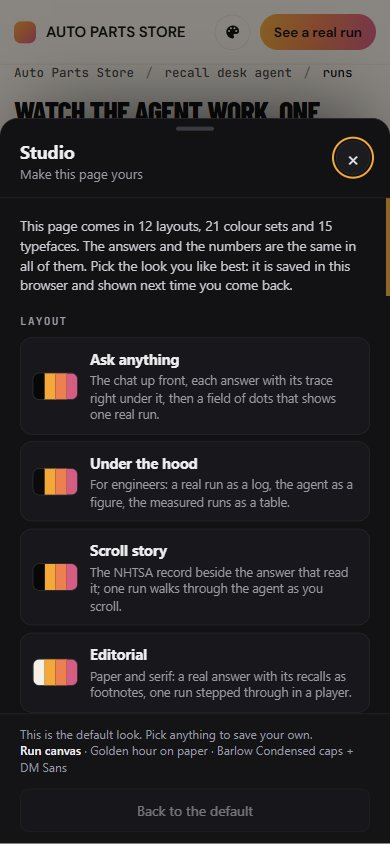
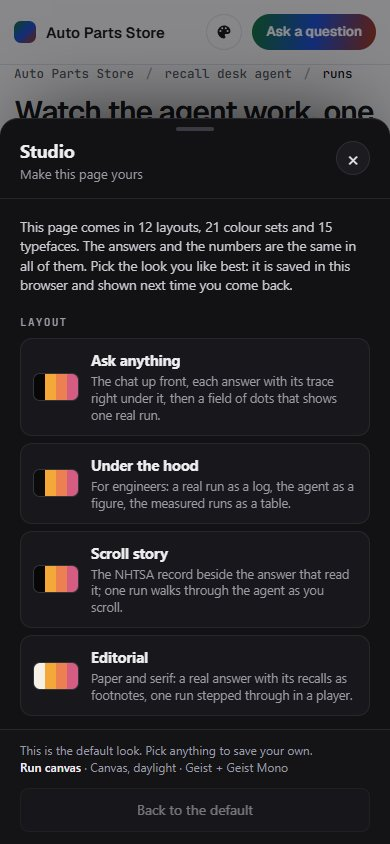
feat(web): Run canvas on Canvas, daylight with Geist is the default look
The default look a first visit sees becomes layout 10, Run canvas, on
Canvas, daylight with Geist + Geist Mono (web/src/studio/presets.ts
DEFAULT, now { option: "10", palette: "canvasDay", font: "geist" }). It
was layout 01, Ask anything, on Golden hour on paper with Plus Jakarta
Sans, since 2026-11-15 (5c62ec2). The owner picked the new look in the
Studio.

The README pictures follow the default:
- layout-10 at 1280 and 390, and the Studio at 1280 and 390, retaken from
  the bare address, so they show the new default look;
- layout-01 at 1280 and 390, retaken from ?layout=01, so they show 01 in
  its own colours, like every other pair. They showed the default look
  while 01 was the default.
The README text that named layout 01 as the default (the intro, the 01
and 10 captions, the note on how the pictures were taken, the presets
line) says layout 10 now.

How the pictures were taken: the production build served locally with
vite preview, where tracking is off, so the captures add nothing to the
live site's analytics. That copy has no API behind it, so its status call
was answered in the capture browser with the live site's own reply of
the same day ({"live":true,"perVisitorPerDay":5}), and the desk opens on
Ask as it does live. Viewport captures, 1280 x 800 and 390 x 844, none
scrolls sideways (6 of 6).

Tests: the two Studio tests that pin the default changed first and failed
on the old DEFAULT (2 of 239); npm test 239 of 239, web:build and
build:lambda pass.
[…]

diff --git a/test/web-studio.test.ts b/test/web-studio.test.ts
@@ -67,11 +67,12 @@ test("every palette meets the contrast it claims", () => {
   }
 });
 
-// The default (chosen 2026-11-15) is Ask anything (01) with Golden hour on paper and Plus
-// Jakarta Sans + IBM Plex Mono; before that it was Run canvas (10) with Barlow Condensed caps.
-test("fifteen font pairings; the default is Ask anything on golden hour on paper with Plus Jakarta Sans", () => {
+// The default (chosen 2026-11-21) is Run canvas (10) on Canvas, daylight with Geist + Geist Mono;
+// before that, from 2026-11-15, Ask anything (01) on Golden hour on paper with Plus Jakarta Sans,
+// and before that Run canvas (10) with Barlow Condensed caps.
+test("fifteen font pairings; the default is Run canvas on Canvas, daylight with Geist", () => {
   assert.equal(Object.keys(FONTS).length, 15);
-  assert.deepEqual(DEFAULT, { option: "01", palette: "coverPaper", font: "jakarta" });
+  assert.deepEqual(DEFAULT, { option: "10", palette: "canvasDay", font: "geist" });
   assert.match(FONTS.condensed.head, /Barlow Condensed/);
   assert.match(FONTS.condensed.body, /DM Sans/);
   assert.equal(FONTS.condensed.caps, true);
@@ -90,8 +91,8 @@ test("a ?layout= link is shown and says it came from a link", () => {
 
 test("without a link the saved pick shows; without either, the default", () => {
   assert.deepEqual(resolve("", { option: "08", palette: "lime", font: "inter" }), { option: "08", palette: "lime", font: "inter", source: "saved" });
-  assert.deepEqual(resolve(""), { option: "01", palette: "coverPaper", font: "jakarta", source: "default" });
-  assert.deepEqual(resolve("?layout=99"), { option: "01", palette: "coverPaper", font: "jakarta", source: "default" });
+  assert.deepEqual(resolve(""), { option: "10", palette: "canvasDay", font: "geist", source: "default" });
+  assert.deepEqual(resolve("?layout=99"), { option: "10", palette: "canvasDay", font: "geist", source: "default" });
   assert.equal(resolve("", { option: "99" }).source, "default");
 });
 

diff --git a/web/src/studio/presets.ts b/web/src/studio/presets.ts
@@ -68,9 +68,10 @@ export const OPTIONS: Option[] = [
   { id: "14", name: "Status cards", short: "Friendly, like a car app: each piece of the agent as a card with its status. Tap one to find it on the map.", cfg: { look: "garage", palette: "garage", font: "outfit" } },
 ];
 
-// What a first-time visitor sees: Ask anything on Golden hour on paper with Plus Jakarta Sans + IBM Plex
-// Mono (chosen 2026-11-15; before that Run canvas, layout 10, with Barlow Condensed caps).
-export const DEFAULT = { option: "01", palette: "coverPaper", font: "jakarta" };
+// What a first-time visitor sees: Run canvas (layout 10) on Canvas, daylight with Geist + Geist Mono
+// (chosen 2026-11-21; from 2026-11-15 Ask anything on Golden hour on paper with Plus Jakarta Sans,
+// before that Run canvas with Barlow Condensed caps).
+export const DEFAULT = { option: "10", palette: "canvasDay", font: "geist" };
 
 export const PALETTES: Record<string, Palette> = {
   coverDark: { name: "Golden hour on black", bg: "#070708", card: "#141416", card2: "#1b1b1e", line: "#26262c", tx: "#f3f3f5", mu: "#9a9aa3", a1: "#f4a83a", a2: "#ec8050", a3: "#d55c82", acc: "#f4a83a", on: "#111111", mark: "rgba(244,168,58,.28)" },

diff --git a/README.md b/README.md
@@ -18,7 +18,7 @@ questions each on Claude Haiku 5.5, Sonnet 5.5 and Opus 5.5, passed 44, 46 and 5
 **A system map, and a customizable page.** Every layout shows the whole system as one map that lights up, piece by
 piece, as a recorded or live answer plays, with a 16-step tour of the run where the safety rule sent the first
 answer back. The demo comes in 12 layouts, 21 colour sets and 15 typefaces, with the same answers and numbers in
-all of them; the default is layout 01, Ask anything. The **Studio** button lets a visitor pick a look, and the pick
+all of them; the default is layout 10, Run canvas, in daylight colours. The **Studio** button lets a visitor pick a look, and the pick
 is saved in their browser for the next visit. See [Design](#design-on-the-web-and-on-a-phone).
 
 <a href="https://recall-desk.mniznik.com"><img alt="The system map on the live demo playing a real recorded run, the park-it recall: each piece lights up as the agent works, the rules send the first answer back because the safety warning is missing, and the corrected answer is shown with its 12 recalls cited. A caption under the map names each of the 10 steps." src="docs/img/system-map.gif" width="760"></a>
@@ -459,7 +459,7 @@ layout (`?layout=NN`) on the live site.
 <td><a href="https://recall-desk.mniznik.com/?layout=01"><img alt="Layout 01, Ask anything, on the web at 1280 pixels" src="docs/img/layouts/layout-01-1280.jpeg" width="600"></a></td>
 <td align="center"><a href="https://recall-desk.mniznik.com/?layout=01"><img alt="Layout 01, Ask anything, on a phone at 390 pixels" src="docs/img/layouts/layout-01.jpeg" width="200"></a></td>
 </tr>
-<tr><td colspan="2"><b>01 Ask anything</b> (the default layout, shown in the default look). The chat up front, each answer with its trace right under it, then a field of dots that shows one real run.</td></tr>
+<tr><td colspan="2"><b>01 Ask anything</b>. The chat up front, each answer with its trace right under it, then a field of dots that shows one real run.</td></tr>
 <tr>
 <td><a href="https://recall-desk.mniznik.com/?layout=04"><img alt="Layout 04, Under the hood, on the web at 1280 pixels" src="docs/img/layouts/layout-04-1280.jpeg" width="600"></a></td>
 <td align="center"><a href="https://recall-desk.mniznik.com/?layout=04"><img alt="Layout 04, Under the hood, on a phone at 390 pixels" src="docs/img/layouts/layout-04.jpeg" width="200"></a></td>
@@ -494,7 +494,7 @@ layout (`?layout=NN`) on the live site.
 <td><a href="https://recall-desk.mniznik.com/?layout=10"><img alt="Layout 10, Run canvas, on the web at 1280 pixels" src="docs/img/layouts/layout-10-1280.jpeg" width="600"></a></td>
 <td align="center"><a href="https://recall-desk.mniznik.com/?layout=10"><img alt="Layout 10, Run canvas, on a phone at 390 pixels" src="docs/img/layouts/layout-10.jpeg" width="200"></a></td>
 </tr>
-<tr><td colspan="2"><b>10 Run canvas</b>. A workflow canvas: the recorded runs in a rail, the system map in the middle lighting up step by step, the desk as its log panel.</td></tr>
+<tr><td colspan="2"><b>10 Run canvas</b> (the default layout, shown in the default look: Canvas, daylight with Geist and Geist Mono). A workflow canvas: the recorded runs in a rail, the system map in the middle lighting up step by step, the desk as its log panel.</td></tr>
 <tr>
 <td><a href="https://recall-desk.mniznik.com/?layout=11"><img alt="Layout 11, Trace waterfall, on the web at 1280 pixels" src="docs/img/layouts/layout-11-1280.jpeg" width="600"></a></td>
 <td align="center"><a href="https://recall-desk.mniznik.com/?layout=11"><img alt="Layout 11, Trace waterfall, on a phone at 390 pixels" src="docs/img/layouts/layout-11.jpeg" width="200"></a></td>
@@ -525,9 +525,11 @@ layout (`?layout=NN`) on the live site.
 The web pictures are 1280 by 800 captures of the live site on 2026-11-14, where the desk opens on Ask. The phone
 pictures are 390 by 844 captures of the production build served locally with `vite preview` the same day; with
 no server behind that copy, live answers are off and the desk opens on the Examples, as it does whenever live
-answers are off. The 01 pair is the exception: both are from the live site's bare address on 2026-11-15, so they
-show the default look. Every other pair comes from a `?layout=` link, which shows a layout in its own colours and
-type.
+answers are off. Three pairs were retaken on 2026-11-21, when the default changed, from the production build served
+locally with `vite preview`, with its status call answered as the live site answered it that day (live answers
+on), so the desk opens on Ask as it does live: the 10 pair and the Studio pair from the bare address, so they show
+the default look, and the 01 pair from `?layout=01`. Every pair except 10 and the Studio comes from a `?layout=`
+link, which shows a layout in its own colours and type.
 
 **The desk** is the same in every layout ([web/src/App.tsx](web/src/App.tsx)), with three tabs:
 
@@ -561,8 +563,8 @@ whether the look on screen came from a link, a saved pick or the default.
 **How the page is put together** ([web/src/](web/src/)):
 
 - [studio/presets.ts](web/src/studio/presets.ts) holds the 12 layouts, 21 colour sets, 15 typefaces and the
-  default: layout 01, Ask anything, in "Golden hour on paper" with Plus Jakarta Sans and IBM Plex Mono,
-  chosen on 2026-11-15.
+  default: layout 10, Run canvas, in "Canvas, daylight" with Geist and Geist Mono, chosen on 2026-11-21
+  (before that, from 2026-11-15, layout 01 in "Golden hour on paper" with Plus Jakarta Sans).
 - Before anything else, an inline script from [studio/boot.ts](web/src/studio/boot.ts) paints the background of the
   look about to show, so a dark look does not flash white, and keeps the page hidden until it has rendered, or
   6 seconds at most.
